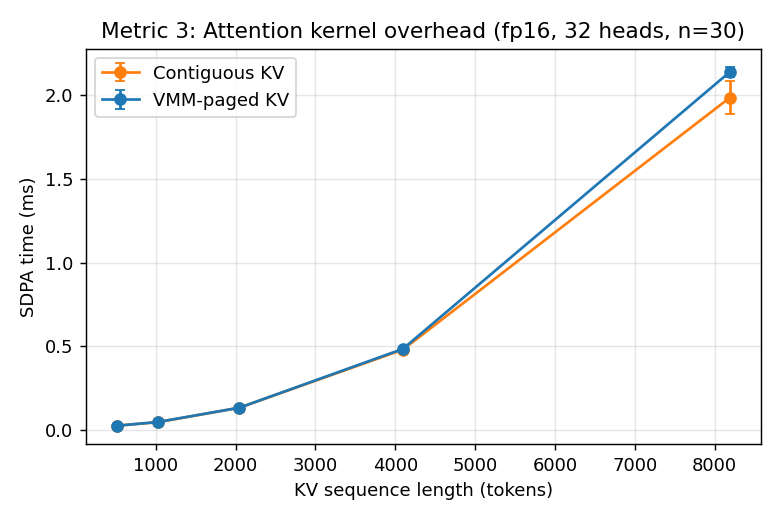
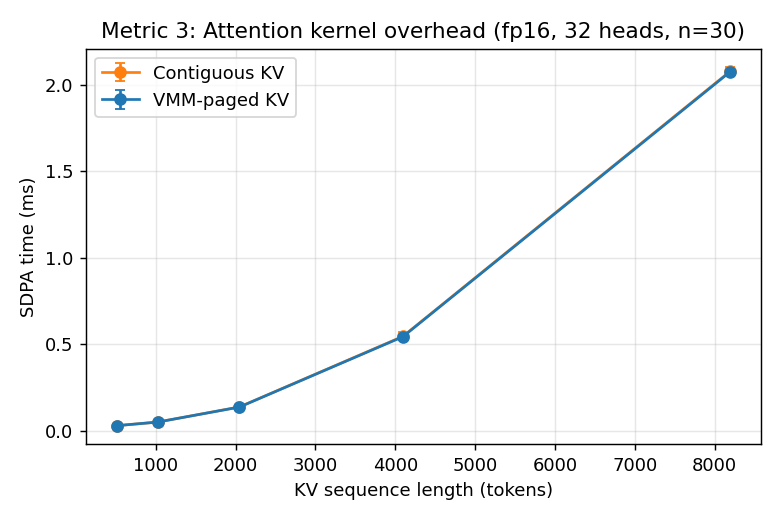
R1 P1-A: Metric 4 true OOM — CoW OOMs at 84 branches (12GiB prefix), live HBM flat at 12GiB; ceiling is VA/mapping-metadata not data, 14x over clone's 6. P1-B: vLLM Option B design sketch (~10-14 day estimate). Regen figures (+metric5b, +cow_overhead).

diff --git a/bench/make_figures.py b/bench/make_figures.py
@@ -89,3 +89,43 @@ plt.tight_layout(); plt.savefig(os.path.join(F,"metric5_e2e.png"), dpi=130); plt
 
 print("wrote figures to", F)
 for fn in sorted(os.listdir(F)): print(" ", fn)
+
+# Fig 5b: real single-layer decode — peak HBM + bytes copied (P0-A)
+try:
+    df = pd.read_csv(os.path.join(D, "metric5b_decode.csv"))
+    fig, ax = plt.subplots(1, 3, figsize=(13, 4))
+    regimes = ["cow_fork", "full_clone"]; colors = {"cow_fork":"C0","full_clone":"C3"}
+    labels = {"cow_fork":"CoW fork","full_clone":"Full clone"}
+    for j, col, ylab, ttl in [(0,"peak_live_mib","Peak live HBM (MiB)","Peak HBM"),
+                              (1,"kv_bytes_copied","KV bytes copied (MiB)","KV bytes copied"),
+                              (2,"tokens_per_s","tokens / s","Decode throughput")]:
+        vals = []
+        for r in regimes:
+            v = df[df.regime==r][col].iloc[0]
+            if col=="kv_bytes_copied": v = v/2**20
+            vals.append(v)
+        ax[j].bar([labels[r] for r in regimes], vals, color=[colors[r] for r in regimes])
+        ax[j].set_ylabel(ylab); ax[j].set_title(ttl); ax[j].grid(axis="y", alpha=0.3)
+    N=int(df.n_branches.iloc[0]); P=int(df.prefix_tokens.iloc[0]); Dd=int(df.decode_tokens.iloc[0])
+    plt.suptitle(f"Metric 5b (P0-A): real single-layer decode over CoW KV\n"
+                 f"Qwen2.5-7B layer-0, N={N} branches, {P}-tok prefix, {Dd}-tok decode each (H100)")
+    plt.tight_layout(); plt.savefig(os.path.join(F,"metric5b_decode.png"), dpi=130); plt.close()
+except Exception as e:
+    print("fig5b skipped:", e)
+
+# Fig: CoW overhead decomposition (B5)
+try:
+    df = pd.read_csv(os.path.join(D, "cow_overhead.csv"))
+    order = ["full_cow","d2d_copy_only","scratch_va_bookkeeping_only"]
+    names = {"full_cow":"Full CoW","d2d_copy_only":"D2D copy\n(unavoidable)",
+             "scratch_va_bookkeeping_only":"Scratch-VA\nbookkeeping\n(removable)"}
+    vals = [df[df.component==c].ns_median.iloc[0]/1e3 for c in order]
+    plt.figure(figsize=(6,4))
+    bars = plt.bar([names[c] for c in order], vals, color=["C5","C2","C1"])
+    for b,v in zip(bars, vals): plt.text(b.get_x()+b.get_width()/2, v+1, f"{v:.0f}us", ha="center", fontsize=9)
+    plt.ylabel("Median latency (us)")
+    plt.title("B5: CoW cost decomposition (2 MiB page, H100, n=300)\nCoW is map-op bound; D2D copy is only ~7%")
+    plt.grid(axis="y", alpha=0.3); plt.tight_layout()
+    plt.savefig(os.path.join(F,"cow_overhead.png"), dpi=130); plt.close()
+except Exception as e:
+    print("cow_overhead fig skipped:", e)

diff --git a/bench/bench_metric4_capacity.py b/bench/bench_metric4_capacity.py
@@ -18,7 +18,7 @@ from explog import log
 # prefix sized so a single branch is ~12 GiB -> full clone OOMs after a handful.
 PREFIX_PAGES = 6144            # 6144 * 2MiB = 12 GiB prefix
 MAX_BRANCHES_CLONE = 64      # clone OOMs long before this
-MAX_BRANCHES_COW = 4096      # P1-A: sweep CoW until it actually OOMs (VA / handle / HBM)
+MAX_BRANCHES_COW = 512      # P1-A: sweep CoW to OOM or 512 (each fork = 6144 map ops at 12GiB prefix)
 OUT = os.path.join(os.path.dirname(__file__), "..", "data", "metric4_capacity.csv")
 
 def is_oom(e):
@@ -31,14 +31,18 @@ def cow_capacity():
     snap = m.snapshot("p")
     n = 0
     oom = False
+    traj = []
     try:
         for i in range(MAX_BRANCHES_COW):
             m.fork(snap, f"c{i}")   # zero-copy alias
             n += 1
+            if n % 32 == 0:
+                traj.append((n, len(m.pool.pages) * m.page_size / 2**30))
     except RuntimeError as e:
         oom = is_oom(e)
         if not oom: raise
     live = len(m.pool.pages) * m.page_size / 2**30
+    print("COW_TRAJ", traj)
     return n, oom, live
 
 def clone_capacity():

diff --git a/prototype_status.md b/prototype_status.md
@@ -72,3 +72,71 @@ reconstructed them from intact structural fields and the committed v0.1 CSVs:
 `chars_per_token = 4` (back-solved from `prefix_tokens` in `data/metric5_e2e.csv`:
 django-14500 has ps_chars=292, prefix_tokens=6873, sys+repo=6800 => 73 prob tokens =>
 292/73 = 4). Both reproduce the v0.1 CSV exactly.
+
+---
+
+## P1-B: vLLM integration design sketch (Option B — not implemented, R1)
+
+The committee asked "deployability?". We did NOT patch vLLM in R1 (R1-D3: Option B). We
+follow vAttention's (ASPLOS'25) precedent of validating the VMM mechanism in a standalone
+prototype first, then describing the integration path. Below is the concrete design.
+
+### Where vLLM stands today
+vLLM's `PagedAttention` already allocates KV in fixed-size **blocks** (default 16 tokens)
+managed by `BlockManager` / `KVCacheManager`. Blocks are indexed by a per-sequence
+**block table** (logical block -> physical block id). Prefix caching ("automatic prefix
+caching", APC) already lets multiple sequences SHARE read-only prefix blocks via a hash
+of block contents, with copy-on-write at block granularity when a shared block is written.
+
+**Key observation:** vLLM APC is already a CoW system, but at the *block-table* level over
+a pre-allocated torch KV pool — NOT at the GPU MMU level. It shares by pointing two block
+tables at the same physical block id; it cannot share at sub-block granularity and it
+cannot grow the physical pool past what was pre-reserved at startup.
+
+### What our mechanism adds
+Our VMM CoW shares at the **GPU virtual-address / page-table** level (2 MiB pages), which
+(a) lets the attention kernel see one contiguous VA range (no block-table indirection in
+the kernel — measured ~0% overhead, Metric 3 R1), and (b) lets the physical pool GROW on
+demand via `cuMemMap` instead of being pre-reserved (P0-C dynamic VA). The forking unit is
+an explicit Snapshot/Fork API at causal boundaries (agent branch points), not implicit
+content-hash dedup.
+
+### Integration path (engineering estimate)
+Three components change:
+
+1. **Block allocator -> VMM-backed pool (largest change, ~5-7 days).**
+   Replace vLLM's `CacheEngine` torch `kv_cache` tensors with VA ranges from a `VMMPool`
+   (our `src/vmm_pool.py`). Each KV block becomes a `cuMemMap` of a 2 MiB physical handle
+   at a fixed offset in the sequence's reserved VA range. vLLM block_size (16 tokens) is
+   much smaller than our 2 MiB page; either (a) raise vLLM block_size so 1 block = 1 page,
+   or (b) sub-allocate N vLLM blocks per VMM page (page is the CoW unit; block is the
+   scheduling unit). Recommend (b): keep vLLM's 16-token block for the scheduler, make
+   the CoW/sharing unit the 2 MiB page underneath.
+
+2. **BlockManager.fork_seq() Snapshot/Fork API (~3-4 days).**
+   Add `fork(parent_seq_id, child_seq_id)` to `KVCacheManager` that calls our
+   `KVBranchManager.snapshot()` + `fork()` to alias the parent's VMM pages into the child's
+   VA range (refcount++), instead of allocating + memcpy. The scheduler already tracks
+   per-seq block tables; the change is making "copy parent blocks to child" a VA alias
+   rather than a deep copy. CoW-on-write reuses our `_cow` page-fault path. Exposes
+   branch/replay to the serving API (a new `/fork` endpoint).
+
+3. **Scheduler accounting (~2-3 days).**
+   vLLM's scheduler budgets free blocks to admit requests. With VMM sharing, "free HBM"
+   must be computed from live *physical* pages (refcounted), not block-table entries, so
+   the scheduler can admit far more concurrent branches when they share a prefix (this is
+   exactly the Metric 4 6->N_cow capacity jump, surfaced to the scheduler). Plus a true-OOM
+   guard on `cuMemCreate`.
+
+### Risks / open questions for the patch
+- vLLM's CUDA graph capture pins KV tensor addresses; VA ranges must be stable across
+  `cuMemMap`/`cuMemUnmap` (they are — VA is reserved once; only physical backing changes),
+  but graph replay over a remapped page needs validation.
+- FlashAttention kernels assume contiguous KV; our VA range IS contiguous (Metric 3
+  confirms ~0% overhead), so this should hold, but multi-page-table TLB pressure at very
+  long contexts is unmeasured.
+- Interaction with vLLM's existing APC (content-hash CoW) — likely disable APC and let the
+  explicit Snapshot/Fork API own sharing, to avoid double-CoW.
+
+### Total estimate: ~10-14 engineering days for a working vLLM fork prototype (Option A).
+This is the v0.3 / camera-ready target. R1 ships the standalone mechanism + this sketch.
